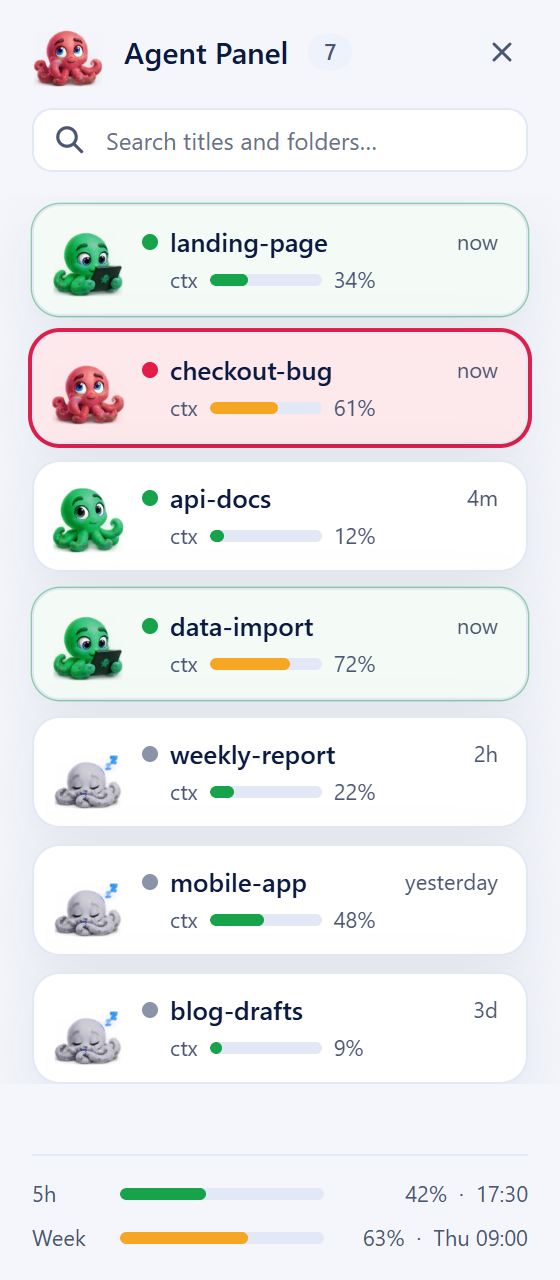
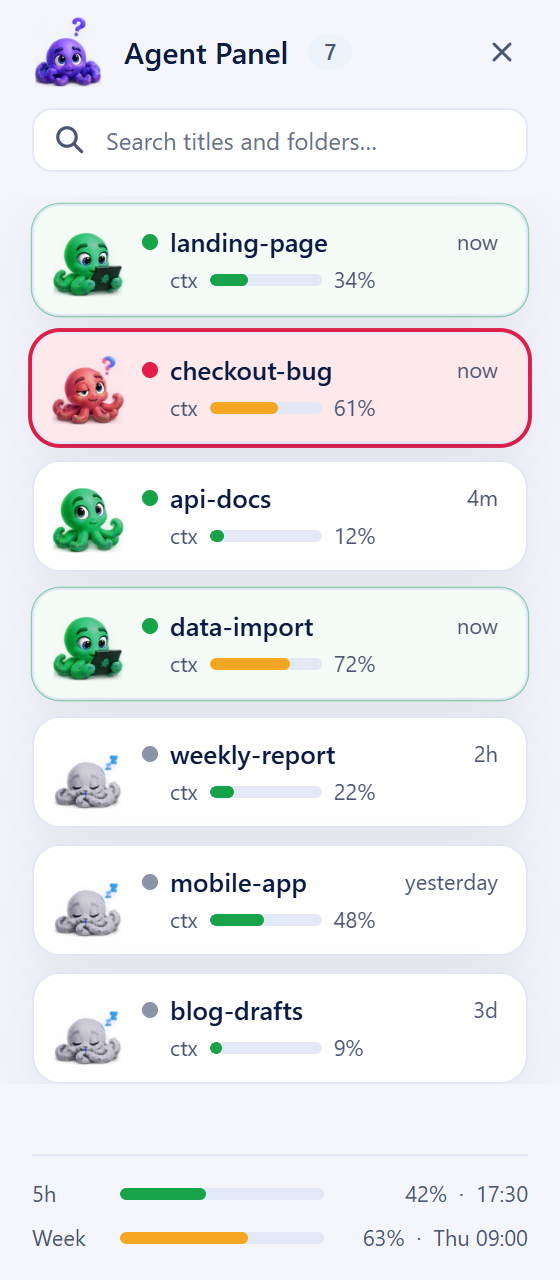
Agent Panel: the header's octopus keeps its own purple; the cards carry the state colours

Changed region(s): [[0.0911, 0.2812, 0.2125, 0.3438], [0.0607, 0.0, 0.1821, 0.0938]]

diff --git a/agent-panel.html b/agent-panel.html
@@ -10,8 +10,8 @@
      Mascot (2026-11-09): a purple octopus (the maintainer's sheet, cut by tools/mascot-export.py into
      mascot/ and inlined by agent-panel.pyw as window.MASCOT). It is the header's logo and sits on every
      card: reading a tablet while the session works, puzzled with a question mark while it asks, calm and
-     blinking now and then while it is open, asleep and still when closed, and takes its state's dot
-     colour (green, red, grey; the strips are recoloured at export). Without the strips the old logo stays. The bars' 50-80 % band is gold to match the status line,
+     blinking now and then while it is open, asleep and still when closed, and on a card takes its
+     state's dot colour (green, red, grey; the strips are recoloured at export); the header's stays purple. Without the strips the old logo stays. The bars' 50-80 % band is gold to match the status line,
      an exception to Spark's "gold for rewards only". Written-down exceptions to design.md "One row,
      one shape": the header's logo (36, the octopus), count pill (18, pill radius) and hide button (26) differ, the
      pill qualifying the title and the button standing apart at the edge. Headings and boxes share the
@@ -323,7 +323,9 @@ requestAnimationFrame(tick);
 function headerMascot() {
   const st = state.sessions.map(s => !s.status ? "" : s.waiting ? "ask" : s.status === "busy" ? "busy" : "idle");
   const top = st.includes("ask") ? "ask" : st.includes("busy") ? "busy" : "idle";
-  $("mark").style.display = sprite($("me"), MOOD[top]) ? "none" : "";
+  // in the octopus's own purple, the strips' "-purple" copies: the cards carry the state colours
+  const [key, ...rest] = MOOD[top];
+  $("mark").style.display = sprite($("me"), [key + "-purple", ...rest]) ? "none" : "";
 }
 
 // hidden by the user, its folder is gone, or a headless `claude -p` run another session started:

diff --git a/tools/mascot-export.py b/tools/mascot-export.py
@@ -8,7 +8,8 @@ Each row used here is cut into its frames (alpha bands between the drawings), ev
 on one square canvas per row, standing on the drawing's baseline and centred on it, so the frames
 line up when played; then scaled to 96 px frames (shown at 36 to 38 px, sharp on scaled screens),
 and recoloured to its state's dot colour: only the octopus's purple changes hue (the blue eyes, the
-white and the props keep theirs), green for open and working, red for asking, grey for closed.
+white and the props keep theirs), green for open and working, red for asking, grey for closed;
+the header's moods also as <name>-purple.webp, in the octopus's own colour.
 Output: mascot/<name>.webp next to this folder's parent, one horizontal strip per name, and
 mascot/logo.png, the package's logo (256 px), and mascot/tray.png, the tray icon (64 px).
 """
@@ -31,6 +32,7 @@ STRIPS = {
 # the panel's dot colours (--green #16a34a, --red #e11d48, --gone grey) as a target hue for the
 # octopus's purple (hue about 250, median saturation 0.71, brightness 0.80), with saturation and
 # brightness scaled; green is scaled to the dot's own (0.87, 0.64), as a lighter green read as pale
+HEADER = ("calm", "reading", "asking")  # the moods the header shows (never asleep)
 COLOURS = {"green": (142, 1.2, 0.8), "red": (350, 0.9, 0.95), "grey": (None, 0.1, 0.85)}
 
 
@@ -98,6 +100,9 @@ for name, (col, band, keep, colour) in STRIPS.items():
         strip.paste(canvas.resize((OUT_PX, OUT_PX), Image.LANCZOS), (i * OUT_PX, 0))
     recolour(strip, colour).save(os.path.join(OUT, name + ".webp"), "WEBP", quality=85, method=6)
     print("wrote %s (%d frames, %s)" % (name, len(keep), colour))
+    if name in HEADER:  # the header's octopus keeps its own purple
+        strip.save(os.path.join(OUT, name + "-purple.webp"), "WEBP", quality=85, method=6)
+        print("wrote %s-purple" % name)
 
 # the package's logo (README, tray icon): the calm octopus's first pose in its own purple, cut close
 f = frames_of(*STRIPS["calm"][:2])[0]

diff --git a/memory.md b/memory.md
@@ -27,7 +27,7 @@ Key file: `~/.claudex/profiles/glm/.env`, line `CLAUDEX_KEY="..."`. Never in thi
 - Right-click menu (2026-11-07, the maintainer's spec): Hide / Unhide, Close (open sessions only), Delete. The menu is HTML inside the panel (a web page cannot draw outside its window), opened at the pointer and kept inside the panel; Delete is red on a pale red hover. It closes on Escape, on a click outside (that click does nothing else), on scroll and on focus loss. The native menu was rejected (the maintainer, 2026-11-08: it ignores the theme). Hidden ids live in `~/.claude/state/agent-panel/hidden.json`; Hidden sessions, sessions whose folder is gone and headless runs (`entrypoint` `sdk-cli` in the transcript: a `claude -p` that another session started, e.g. tech news calling the Topview MCP; 2026-11-08, the maintainer) stay out of the main list and the header count; a headless card says `headless` and its menu has no Hide; the quiet link *Show Hidden, Deleted and Headless (n)* in the strip under the list adds a HIDDEN, DELETED AND HEADLESS section after the main list and scrolls to it. Cards there are not greyed; their second line says `hidden` or `folder deleted` (the maintainer, 2026-11-07: greyed cards inside the main list read as clutter; the user's word is "deleted", not "missing"). Open/working dots are refreshed every 2 s from `~/.claude/sessions/<pid>.json` alone (the full transcript scan stays at 15 s), so a session closed in its own terminal loses its dot within 2 s. Close and Delete confirm in two steps beside the control, per `mindmap/table.md` *Delete confirmation* (2026-11-08, replacing two modal dialogs): the menu turns into a small card with the question, one sentence on what happens, Cancel (focused, the default) and *Yes, Close* / *Yes, Delete*, placed under the card (above it near the bottom), never on it. Delete on an open session closes it first and waits up to 10 s for its process to end (`close_delete`); on a session stored inside WSL it is shown greyed and says why under itself (a network path has no Recycle Bin). It then moves the transcript, its `<id>/` folder and `file-history/<id>/` to the Recycle Bin with `SHFileOperationW` (`FOF_ALLOWUNDO`). Project files and the project's auto memory are never touched. Close sends `WM_CLOSE` to the session's window when no other open session shares it, otherwise ends the process; the transcript stays.
 - Tested 2026-11-07: work area back to the full 1920 px with the panel running; a maximised window spans the full width and covers the panel; Ctrl+Alt+C raised the panel over it.
 - Panel look (2026-11-08): the Spark theme (`mindmap/design_themes/spark_theme`) as CSS in `agent-panel.html`: Spark colours, 14 px cards with the resting `--shadow`, 10 px search box with a blue focus ring, blue hover border, colour-matched glow on the confirm buttons, blue to cyan logo tile as inline SVG; gold only for rewards. State (the maintainer, 2026-11-09, replacing a blinking dot): the dot is green for a working or open session, grey for a closed one, red for one asking. The whole card of a working session breathes: its background and a ring fade to green and back every 2.4 s (a plain blink of the dot was not seen from afar; a hard blink of whole cards, several at once, was rejected as too loud at the screen edge). A session whose own window shows a prompt waiting for an answer (a permission question or a dialog) pulses red, faster (1.2 s), so it stands out among working ones. Under reduced motion the card keeps a still green or red tint and ring, and the working dot is a hollow ring. The red state comes from `waitingFor`: Claude Code writes it into `~/.claude/sessions/<pid>.json` while `status` still says `busy`, and the panel reads it every 2 s. Before this such a session looked as if it were working. Fonts are Segoe UI (Manrope and Inter are not installed; bundling them was offered, not chosen yet). The Tk version (2026-11-07) had to replace shadows with borders and draw icons with PIL; that is why it was ported (see `mindmap/claude-plus-fa.md`, Decisions).
-- Mascot (2026-11-09, the maintainer): a purple octopus from the maintainer's own sprite sheet, the header's logo (36 px, showing the most pressing state in the list) and on every card (38 px, on the left). It replaced, the same day, MindCopy's Knowledge Gremlin, whose detail turned to mush at 38 px; drawn SVG droplets were tried in between and rejected (too soft, then a superhero version that did not read). Each strip is recoloured at export to its state's dot colour (the maintainer, 2026-11-09): green for working and open, red for asking, grey for closed; green matched to the dot's own saturation and brightness, after a paler green read as washed out; only the octopus's purple (hue 232 to 320) is shifted, so the blue eyes and the props keep their colours; the logo and the tray icon stay purple. Mood by state: working reads a tablet (loop, 650 ms a frame), asking looks puzzled with a question mark (loop, 550 ms), open looks around and blinks once then rests 5 s (450 ms), closed sleeps without moving. The sheet's frames are separate poses, not in-betweens, so each holds about half a second; faster swapping looked jittery. One `requestAnimationFrame` timer drives every strip; each card starts at a random moment so they do not move in step; reduced motion shows frame 0 only (rules: `mindmap/mascot.md`). Every card shows the same octopus: the sheet has one character, so cards no longer look different from each other.
+- Mascot (2026-11-09, the maintainer): a purple octopus from the maintainer's own sprite sheet, the header's logo (36 px, showing the most pressing state in the list) and on every card (38 px, on the left). It replaced, the same day, MindCopy's Knowledge Gremlin, whose detail turned to mush at 38 px; drawn SVG droplets were tried in between and rejected (too soft, then a superhero version that did not read). Each strip is recoloured at export to its state's dot colour (the maintainer, 2026-11-09): green for working and open, red for asking, grey for closed; green matched to the dot's own saturation and brightness, after a paler green read as washed out; only the octopus's purple (hue 232 to 320) is shifted, so the blue eyes and the props keep their colours; the logo, the tray icon and the header's octopus stay purple (the header plays `calm-purple`, `reading-purple` and `asking-purple`, uncoloured copies the export also writes; the maintainer, 2026-11-09). Mood by state: working reads a tablet (loop, 650 ms a frame), asking looks puzzled with a question mark (loop, 550 ms), open looks around and blinks once then rests 5 s (450 ms), closed sleeps without moving. The sheet's frames are separate poses, not in-betweens, so each holds about half a second; faster swapping looked jittery. One `requestAnimationFrame` timer drives every strip; each card starts at a random moment so they do not move in step; reduced motion shows frame 0 only (rules: `mindmap/mascot.md`). Every card shows the same octopus: the sheet has one character, so cards no longer look different from each other.
 - Card rows (2026-11-08, the maintainer; path row removed 2026-11-09): title, whose tooltip is the full folder path (`where_of`: a WSL-distro session gets `\\wsl.localhost\<distro>` in front, `//` paths turn into backslashes), with the title in full above it when the title is cut (navy, after 400 ms of pointer movement, gone after 3 s, on leave, on a click or on scroll, per `tooltip.md`, which also rules out opening it on keyboard focus; a screen reader gets the path in the card's label). The path had its own row until 2026-11-09; dropping it makes cards smaller so more sessions fit, at the cost of telling same-titled sessions apart only by pointing. Search still matches the path. Then `ctx` bar + percent from `~/.claude/state/context/<sid>.json` (green < 50, gold < 80, red above, as on the status line; left out entirely when unknown) and on the right `hidden` / `headless` / `folder deleted` / age, joined by ` · `. Every part of that row but the flags keeps its width; the flags end in `…` when they do not fit, with the same tooltip showing them in full (a row wider than the card gave the list a horizontal scrollbar, 2026-11-08). Cards are 56 px high. The `(WSL)` tag is gone: the path shows it. The bottom strip shows `5h` and `week` bars from `rate_limits.json`; a figure whose `resets_at` has passed says *no figure yet*. Cards are kept and patched by id, never redrawn wholesale: open sessions change every 2 s, and a redrawn card drops the hover and the title's tooltip (this hid the tooltip in the first web build).
 - `apply design.md` (2026-11-08, three passes) changed the panel: a message about one card shows under that card (an error stays until the next click or key, a success leaves after 5 s); a message about the whole panel floats above the bottom link, and a failed scan stays there in amber until a scan succeeds; the search has a × and Esc, searches title and full path, marks hits and turns the count into `matches/total`; a skeleton shows until the first scan (`scanned` in the state); the age moved to the title row; titles cut with … get a tooltip; every button has a custom tooltip (no `title`); cards are keyboard buttons (Enter or Space opens, Shift+F10 or the menu key opens the menu, arrows walk it); reduced motion stops all motion and draws the working dot as a ring; the closed dot and the bottom link were darkened for contrast. `statusline.py` now rounds halves up like the panel, so both show the same percent.
 - Clicks (2026-11-07, the maintainer): a closed session opens only on a double click, so a stray click never starts one (a single click says "Double-click to open it.", held back 450 ms so a double click never shows it); an open session comes forward on a single click.

diff --git a/README.md b/README.md
@@ -47,7 +47,7 @@ A set of add-ons that makes [Claude Code](https://code.claude.com) on Windows sa
 - Every Claude Code session on your PC, old and current, in a narrow list over the right edge of the screen, newest first, with a search box. It takes no screen space: desktop icons and maximised windows keep their place, and the window you are working in covers it.
 - Each session shows its title (point at it to see the session's full folder path) and a `ctx` bar with how much of its context is used, as on the status line. The bottom of the panel shows your `5h` and `week` usage and when each resets. Both come from the claude-plus-fa status line, so a session that never ran with it shows no bar, and a usage figure not reported yet says *no figure yet*.
 - Double-click a closed session and it **automatically** opens in its own folder, in a new terminal, as `claude --resume <session> --dangerously-skip-permissions`. Sessions you started from a WSL folder open there too.
-- A little octopus sits beside every session, in the colour of the session's dot: green, it reads a tablet while the session works and blinks now and then while it is open; red, it looks puzzled with a question mark when the session asks you something; grey, it sleeps when the session is closed.
+- A little octopus sits beside every session, in the colour of the session's dot: green, it reads a tablet while the session works and blinks now and then while it is open; red, it looks puzzled with a question mark when the session asks you something; grey, it sleeps when the session is closed. The one beside the panel's title keeps its own purple.
 - A green dot marks an open session and a grey one a closed session. The whole card of a working session slowly glows green, and the card of a session whose window asks you something (a permission prompt) pulses red. A single click on an open session does not start a second copy: it brings that session's window to the front, at the size and place it had (restored if it was minimised).
 - It starts **automatically** when you sign in to Windows. `Ctrl+Alt+C` or its tray icon brings it to the front when it is covered, and hides or shows it otherwise.
 - Right-click a session to **Hide** it from the list, **Close** it if it is open, or **Delete** it. Hidden sessions, sessions whose folder no longer exists, and headless runs (a `claude -p` that another session started) leave the main list; *Show Hidden, Deleted and Headless* at the bottom of the panel lists them in a section of their own.
